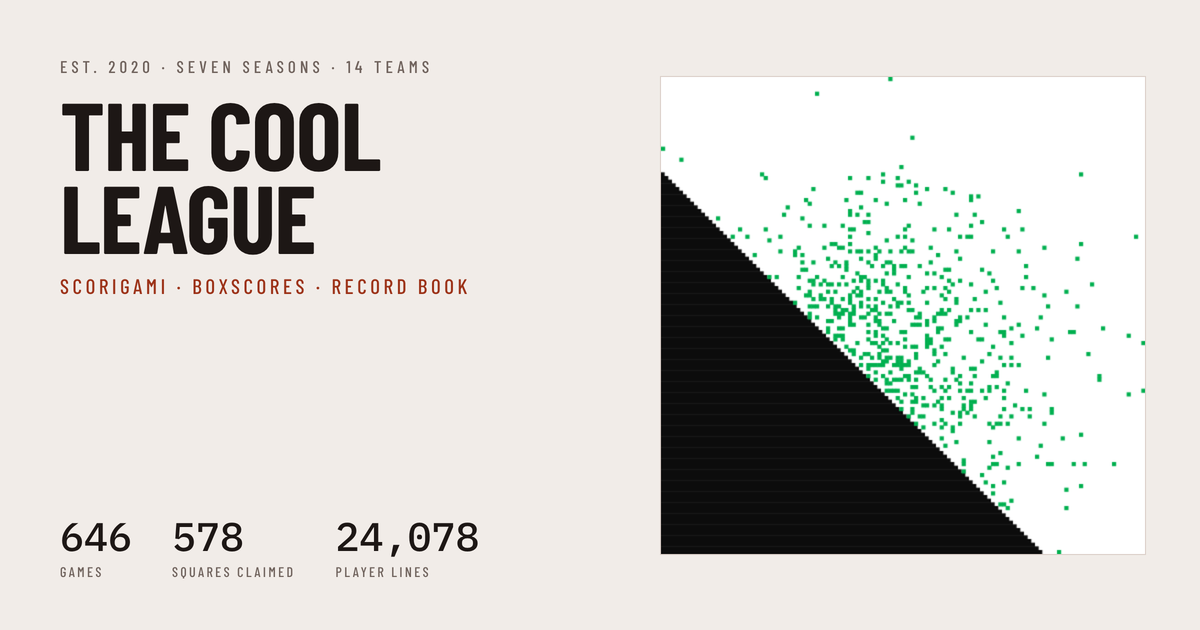
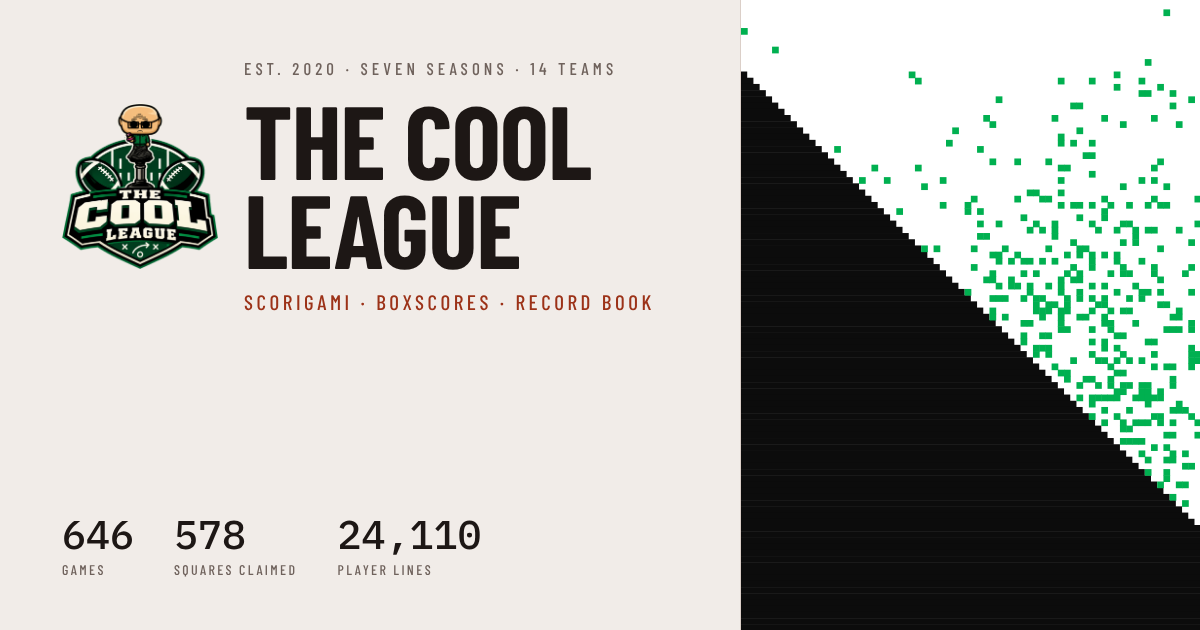
Put the league crest on the site
The logo sits beside the wordmark in the masthead, scaling from 52px on a
phone to 104px on a desktop, and it is now the favicon and the home-screen
icon as well. The link-preview card carries it too, which is where it will
be seen most - that card also stops hardcoding the player-line count and
reads it from the archive, so it is 24,110 rather than a number from three
weeks ago.

The artwork came on an opaque black square. The background is cut away by
flood-filling the near-black regions that touch the border, so the mark
keeps its own black outlines, with the alpha edge pulled in a pixel and
feathered to avoid a halo on the cream background.

Claude-Session: https://claude.ai/code/session_013zvrbkmsLqJGurJxMMmd5c

diff --git a/public/index.html b/public/index.html
@@ -5,7 +5,9 @@
 <meta name="viewport" content="width=device-width,initial-scale=1,viewport-fit=cover">
 <meta name="description" content="The Cool League archive: Scorigami board, every scoreboard and boxscore since 2020, record book, ring counter and the weekly Scorigami Report.">
 <meta name="theme-color" content="#f1ece8">
+<link rel="icon" href="logo-64.png" type="image/png" sizes="64x64">
 <link rel="icon" href="favicon.svg" type="image/svg+xml">
+<link rel="apple-touch-icon" href="apple-touch-icon.png">
 <meta property="og:site_name" content="The Cool League">
 <meta property="og:title" content="The Cool League">
 <meta property="og:description" content="Seven seasons, 646 games, 578 squares. Scorigami, every scoreboard and boxscore since 2020, and the record book.">
@@ -72,8 +74,12 @@ header.mast{border-bottom:1px solid var(--line);background:var(--panel)}
   .board-wrap{padding:9px}
   .sub{margin-bottom:11px}
 }
-.title{font-family:var(--f-disp);font-weight:700;font-size:clamp(38px,9vw,74px);line-height:.92;margin:6px 0 2px;text-transform:uppercase;letter-spacing:-.01em}
-.sub{font-family:var(--f-disp);font-size:clamp(11px,2.6vw,13px);letter-spacing:.14em;text-transform:uppercase;color:var(--accent);margin-bottom:14px}
+.brand{display:flex;align-items:center;gap:clamp(10px,2vw,20px);margin:6px 0 0}
+.brand-t{min-width:0}
+.crest{flex:0 0 auto;width:clamp(52px,10vw,104px);height:auto;display:block}
+.title{font-family:var(--f-disp);font-weight:700;font-size:clamp(34px,8.2vw,74px);line-height:.92;margin:0 0 2px;text-transform:uppercase;letter-spacing:-.01em}
+.sub{font-family:var(--f-disp);font-size:clamp(11px,2.6vw,13px);letter-spacing:.14em;text-transform:uppercase;color:var(--accent);margin-bottom:0}
+.brand+.rail{margin-top:14px}
 nav.rail{display:flex;gap:2px;overflow-x:auto;scrollbar-width:none;margin:0 -18px;padding:0 18px;
   position:sticky;top:env(safe-area-inset-top,0px);z-index:20;background:var(--panel);
   box-shadow:0 1px 0 var(--line), 14px 0 10px -12px var(--line2) inset, -14px 0 10px -12px var(--line2) inset}
@@ -374,8 +380,13 @@ figcaption{font-size:13px;color:var(--muted);line-height:1.4;margin-top:7px;padd
 <header class="mast">
   <div class="wrap">
     <div class="kicker"><span>Est. 2020 · Seven Seasons · 14 Teams</span><span class="sp" id="asof">Through Week 5, 2026</span><button class="theme" id="theme" title="Switch theme" aria-label="Switch theme">◐</button></div>
-    <div class="title">The Cool League</div>
-    <div class="sub">Scorigami · Scoreboards · Boxscores · Record Book</div>
+    <div class="brand">
+      <img class="crest" src="logo.png" width="1133" height="1210" alt="" decoding="async">
+      <div class="brand-t">
+        <div class="title">The Cool League</div>
+        <div class="sub">Scorigami · Scoreboards · Boxscores · Record Book</div>
+      </div>
+    </div>
     <nav class="rail" id="rail"></nav>
   </div>
 </header>
